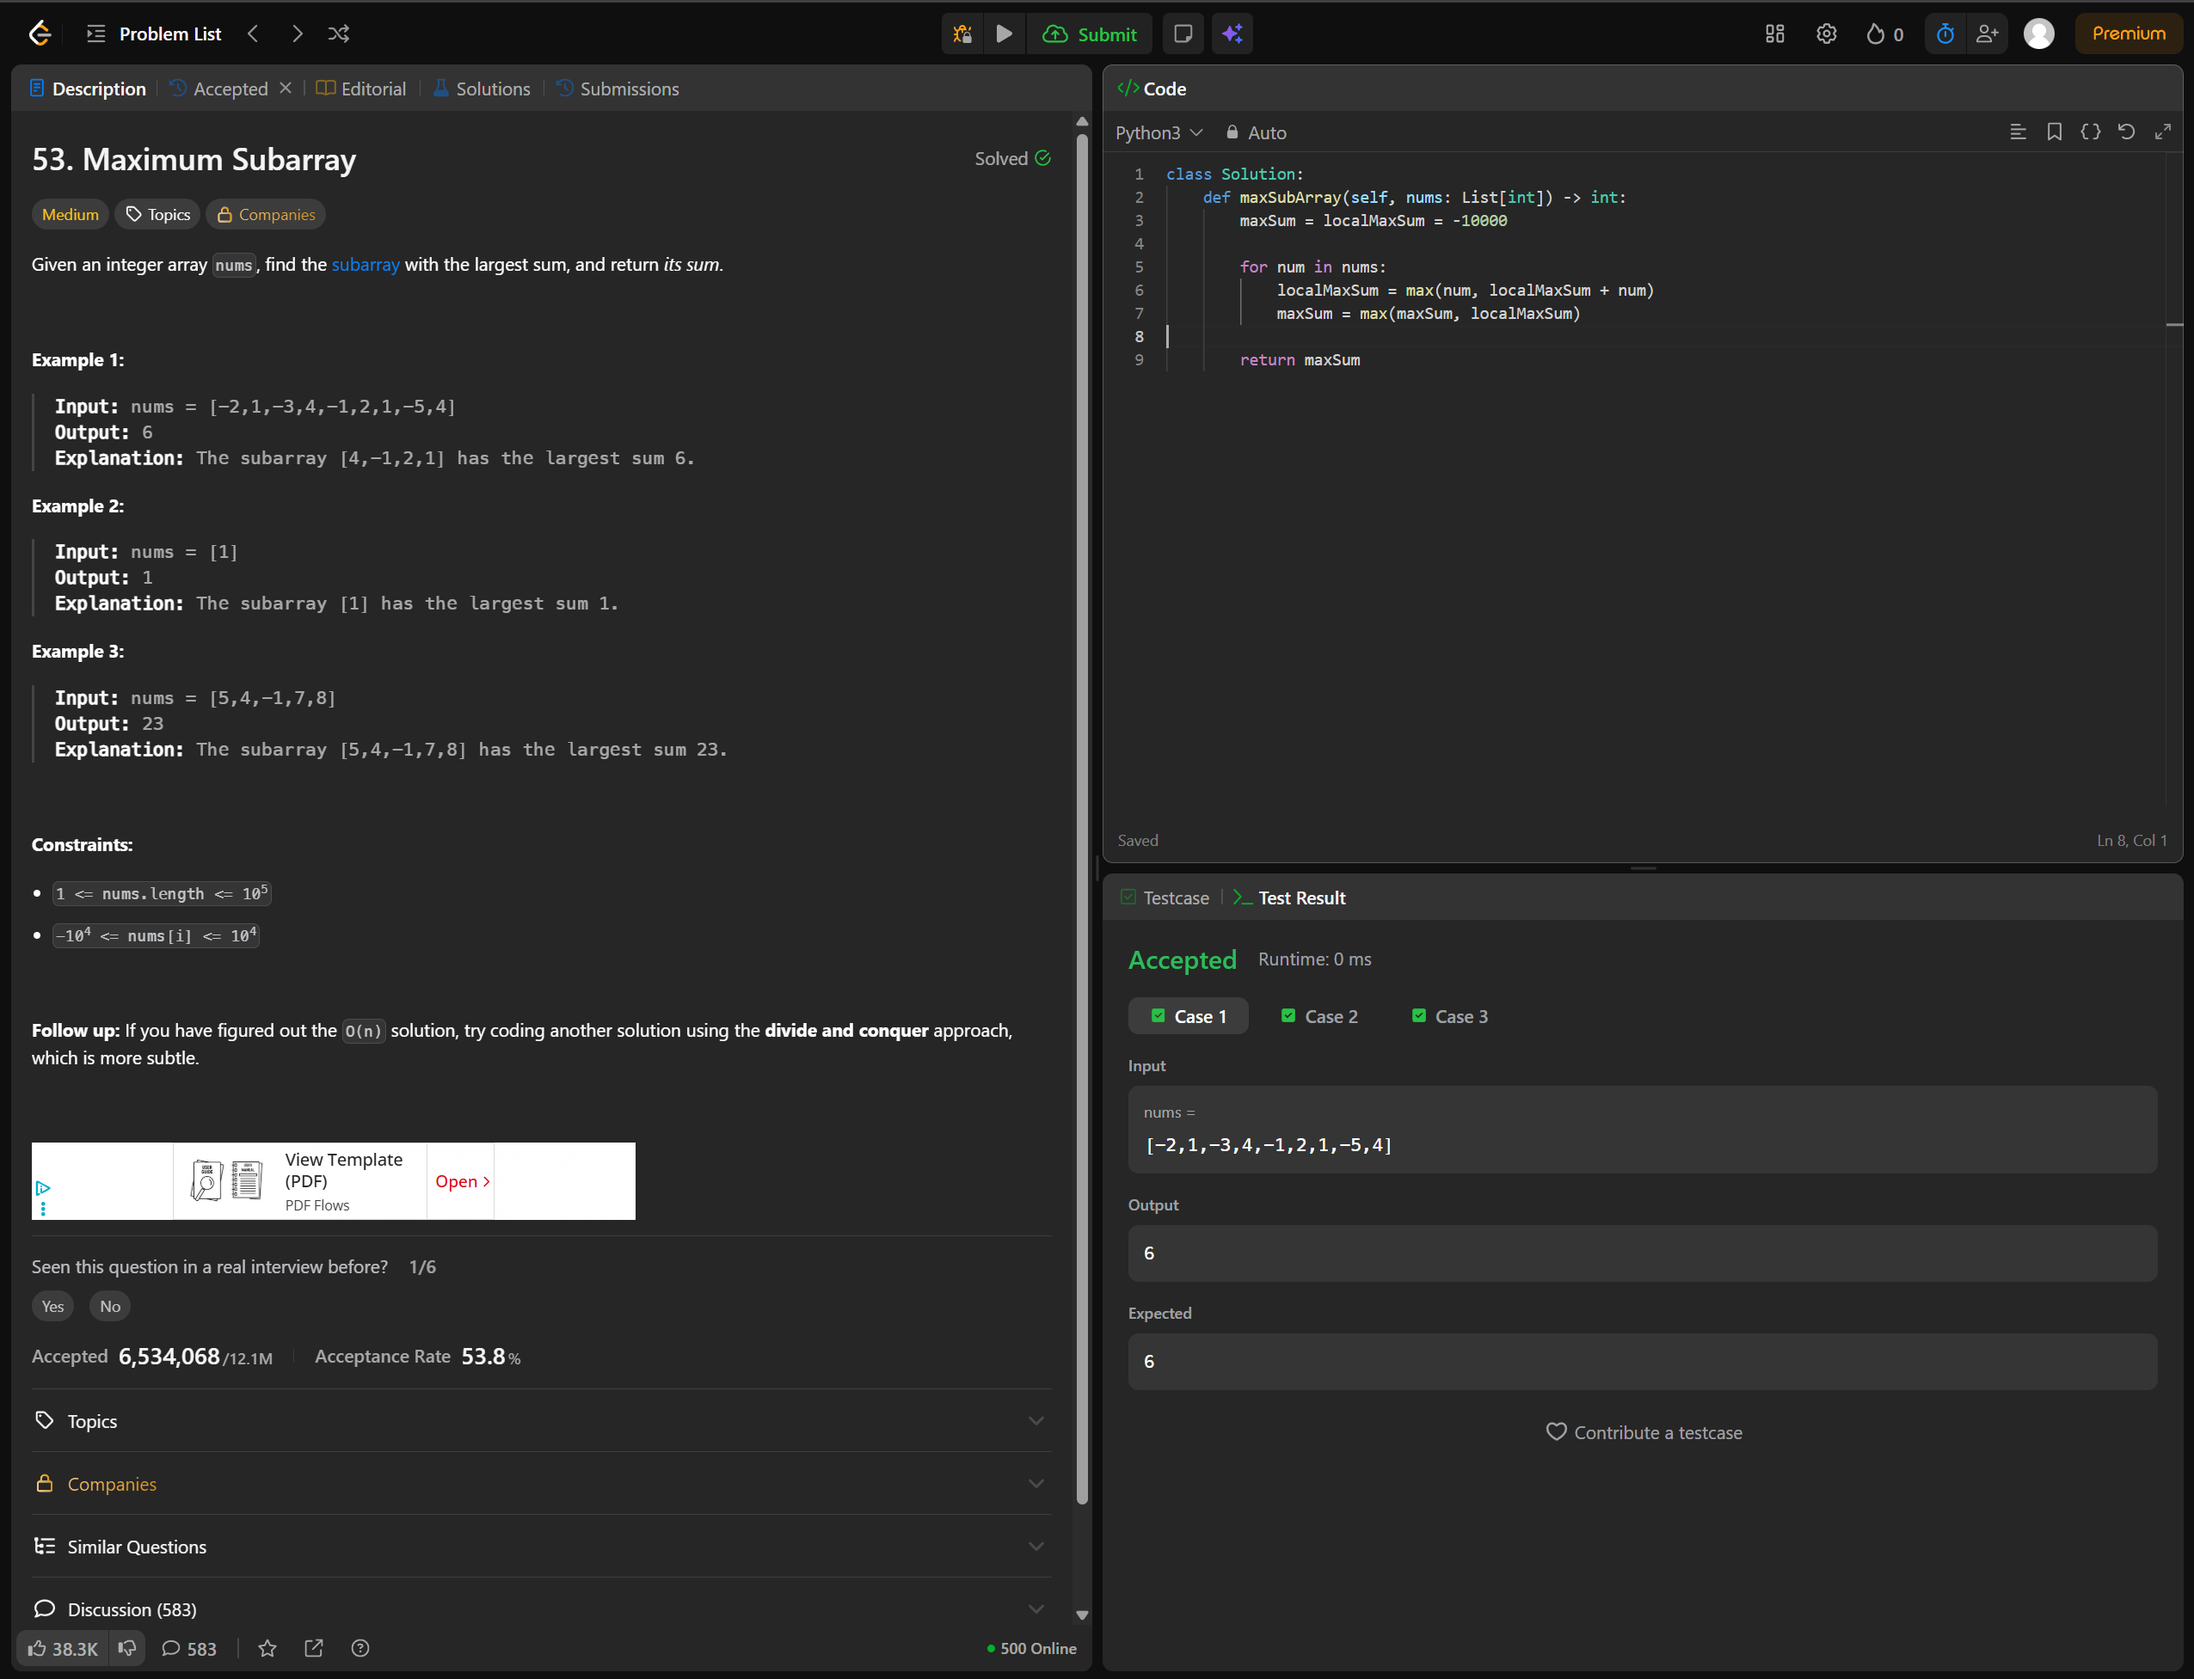
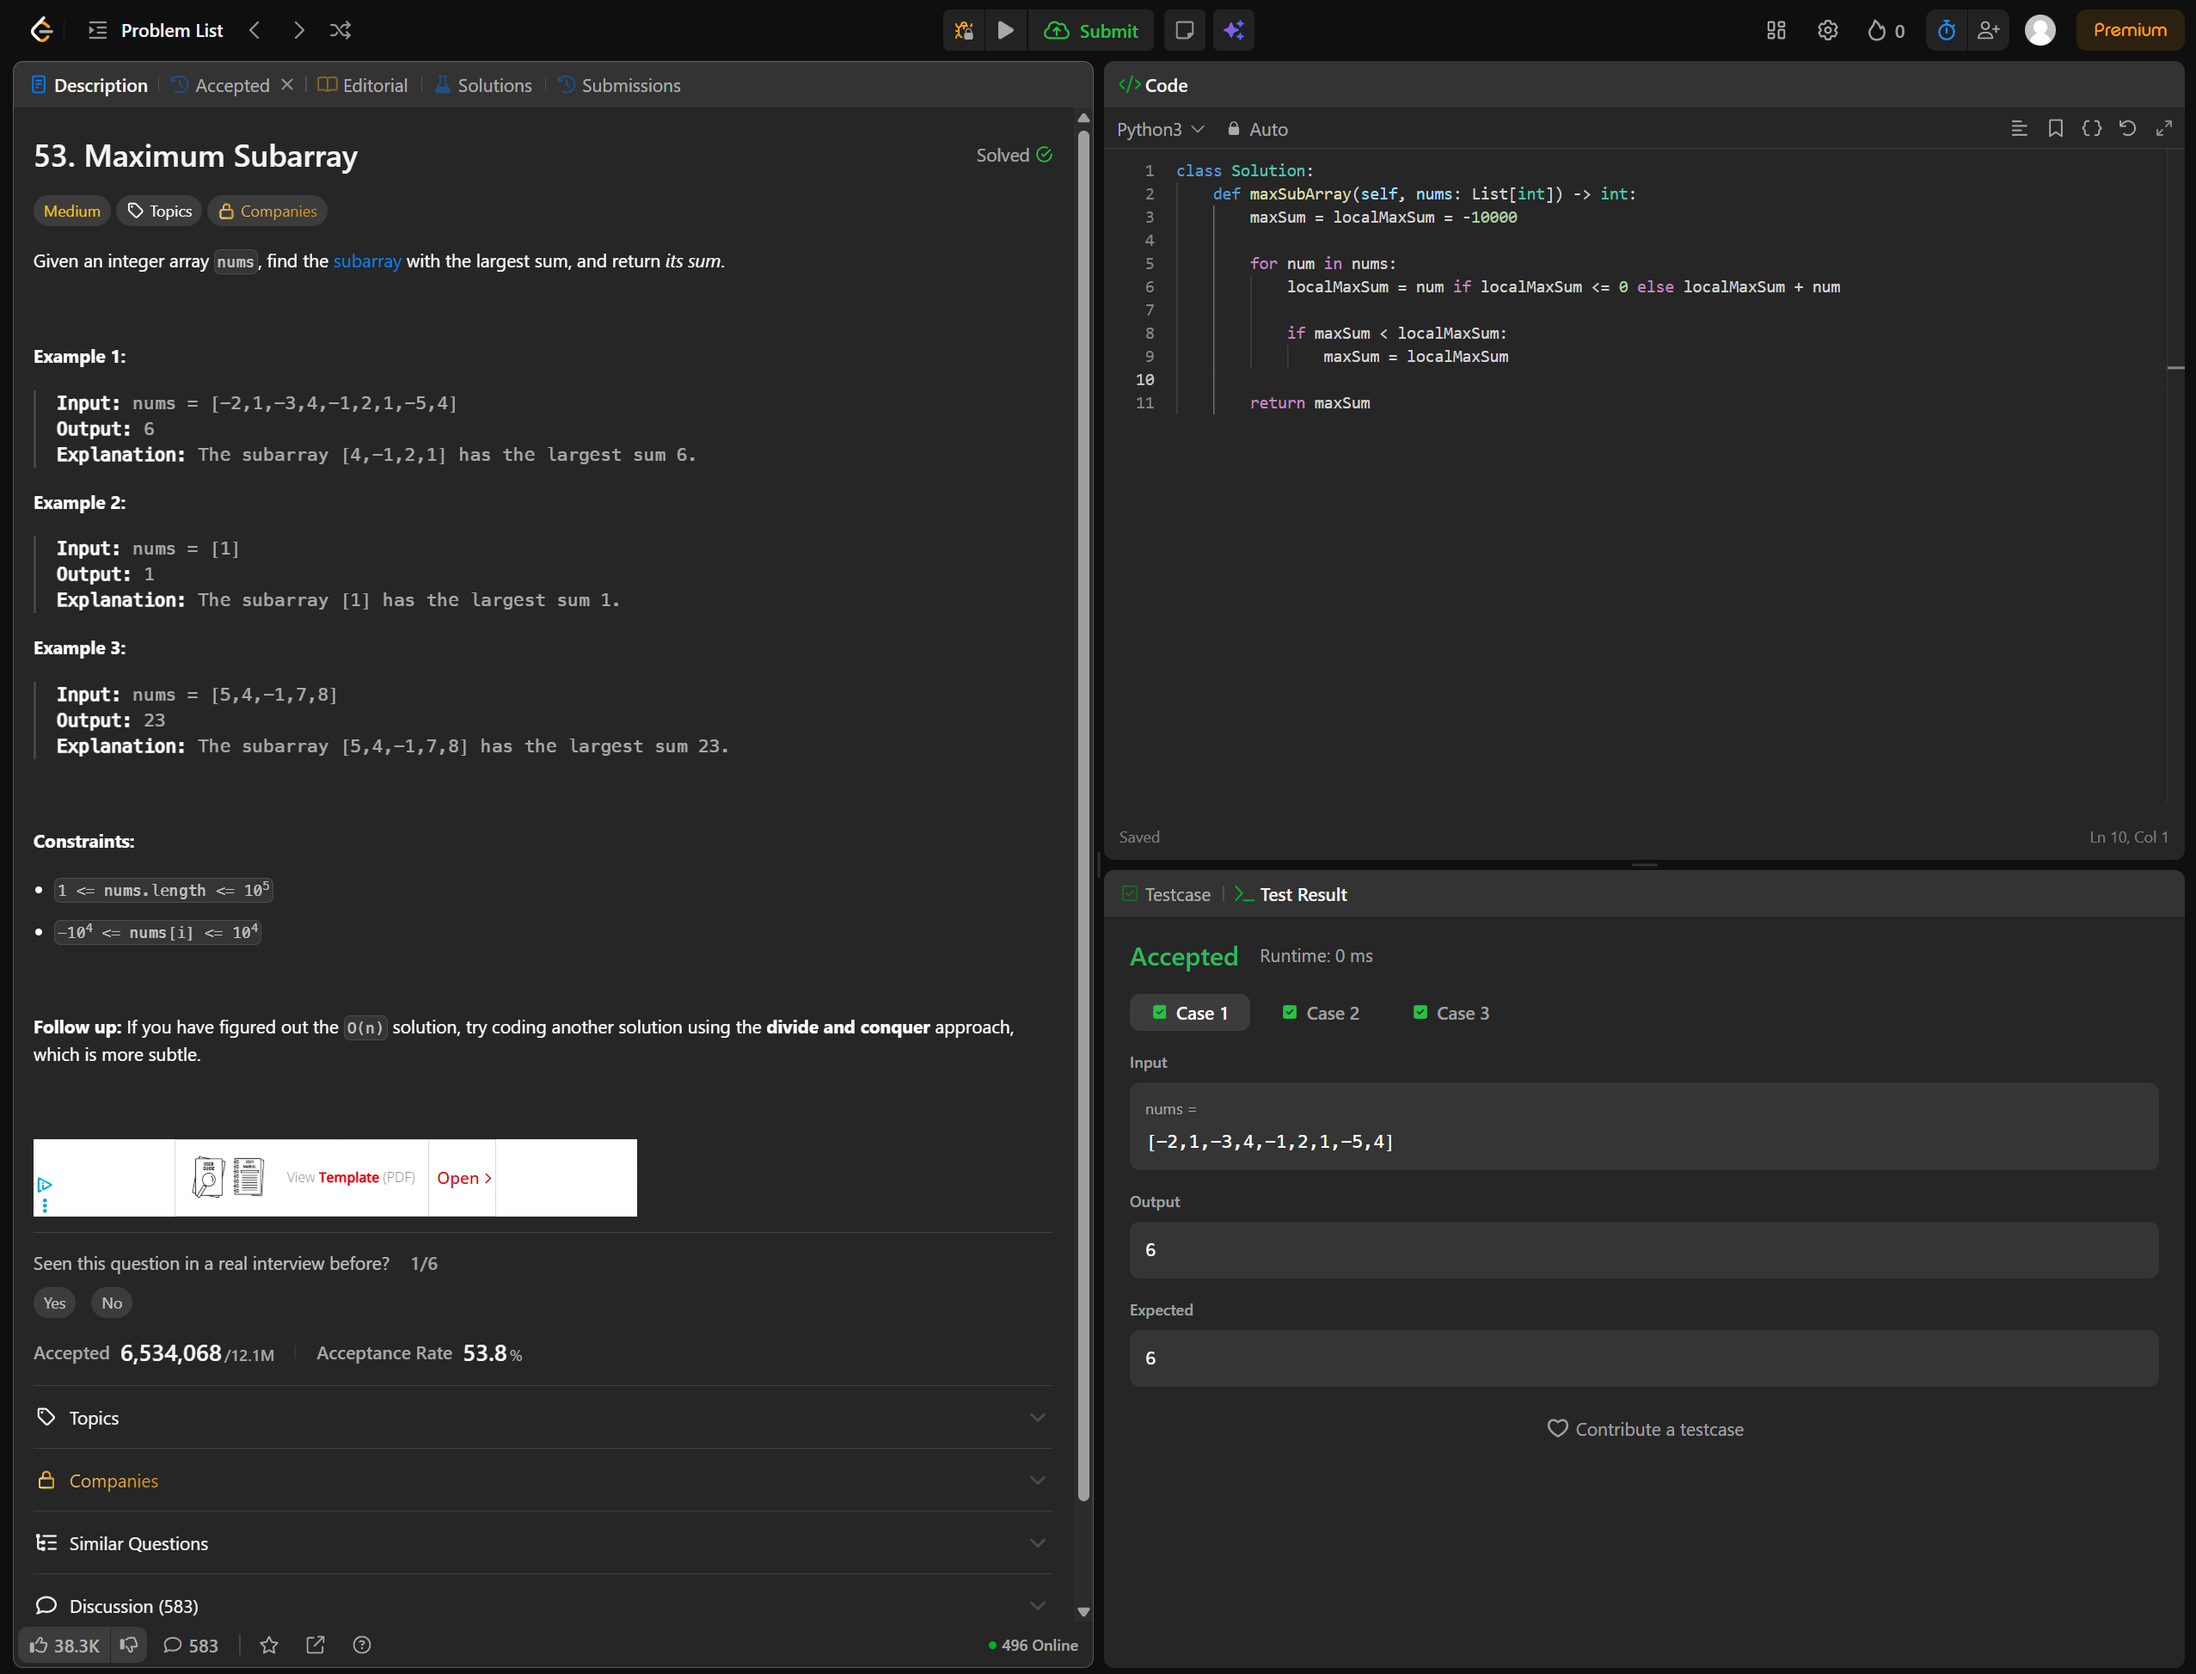
53. Maximum Subarray

diff --git a/Medium/53. Maximum Subarray/53. Maximum Subarray.py b/Medium/53. Maximum Subarray/53. Maximum Subarray.py
@@ -5,7 +5,21 @@ class Solution:
         maxSum = localMaxSum = -10000
 
         for num in nums:
-            localMaxSum = max(num, localMaxSum + num)
-            maxSum = max(maxSum, localMaxSum)
+            localMaxSum = num if localMaxSum <= 0 else localMaxSum + num
+
+            if maxSum < localMaxSum:
+                maxSum = localMaxSum
 
         return maxSum
+
+
+
+# class Solution:
+#     def maxSubArray(self, nums: List[int]) -> int:
+#         maxSum = localMaxSum = -10000
+
+#         for num in nums:
+#             localMaxSum = max(num, localMaxSum + num)
+#             maxSum = max(maxSum, localMaxSum)
+
+#         return maxSum
